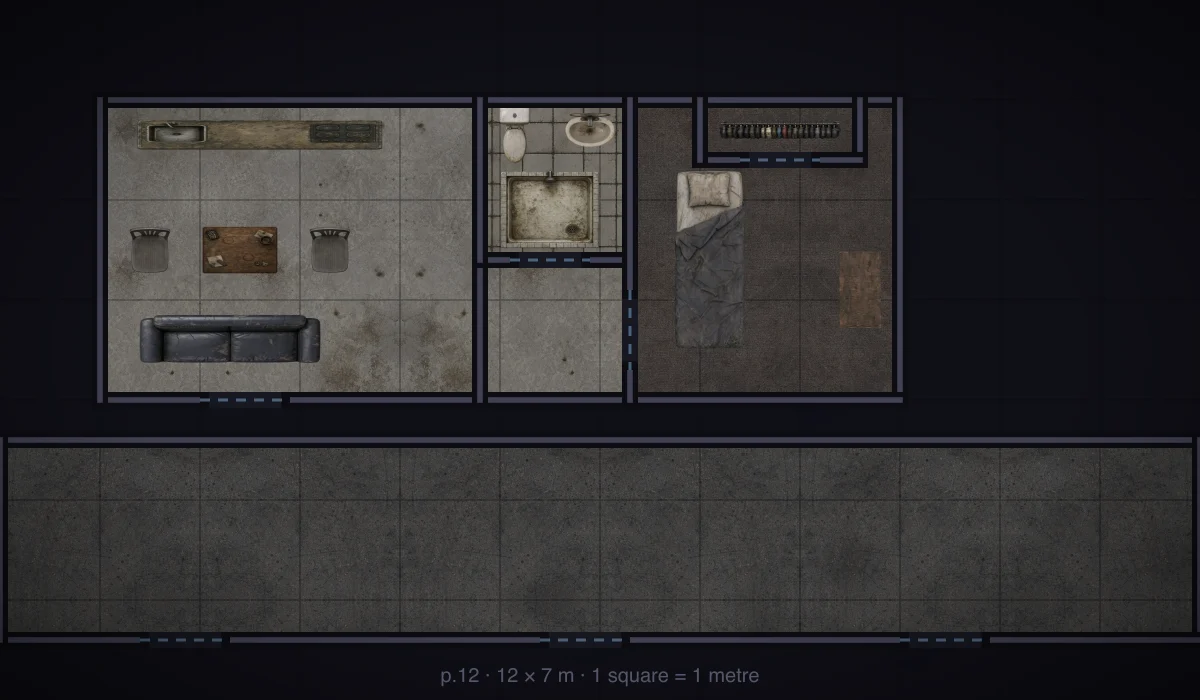
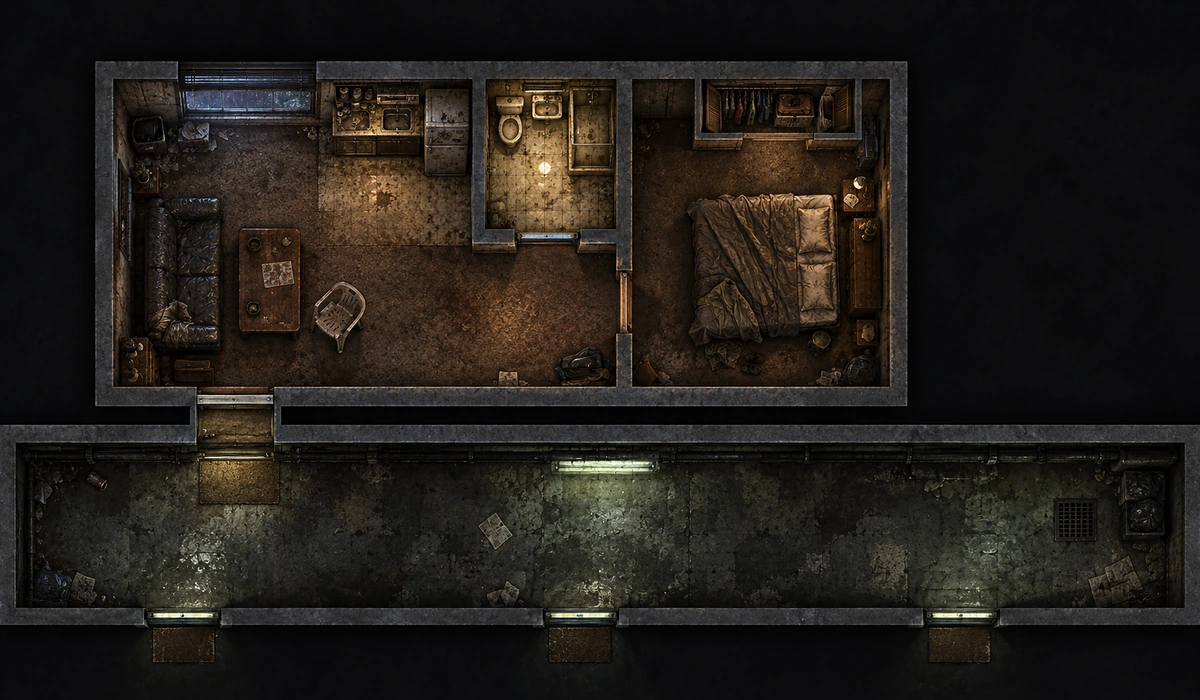
Install the Royal Meadows flat map (variant A)
Downscaled rather than upscaled: the generated map was 137 px/m native against
the estate's 100 px/m, so a direct Lanczos reduction is already sharp and the
2x-overshoot trick used on the Lobby and Condo would only have added ringing.

The walls fit the art without adjustment, which is the point of feeding the
generator our own authored schematic instead of guide art — the layout it
painted is the layout we asked for, including the living room's L-shaped alcove
and the wardrobe recessed into the bedroom wall.

diff --git a/CHANGELOG.md b/CHANGELOG.md
@@ -3,6 +3,25 @@
 
 ## Unreleased
 
+### Changed — Euphoria's Condo and the Royal Meadows flat are real battle maps
+
+Both generated whole with a floorplan supplied as an image reference, the same
+way as the Lobby. The Condo had no room layout at all before — it now carries 15
+rooms and 14 doors measured off the art. Royal Meadows was re-laid-out first:
+
+- **The flat's internal hallway is gone.** The old plan ran a 0.8 m corridor the
+  full width of a 24 m2 flat with every room opening off it, which belongs in a
+  much larger apartment. The flat's own interior guide settles it — the front
+  door opens straight into the living/kitchenette, and the closet is a shallow
+  reach-in wardrobe with bifold louvre doors, not a room. The living room now
+  turns a corner into a short open alcove serving the bath and the bedroom, and
+  the only corridor left is the building's.
+
+Its floorplan reference was OUR OWN authored layout rendered as a schematic
+rather than a book scan, and the generator followed it noticeably more closely
+than it followed the Pacific Towers guide art. That is now the preferred pattern
+for the remaining scenes.
+
 ### Changed — the Pacific Towers Lobby is a real battle map
 
 The composited maps read as diagrams, and the reason was a bad trade in
